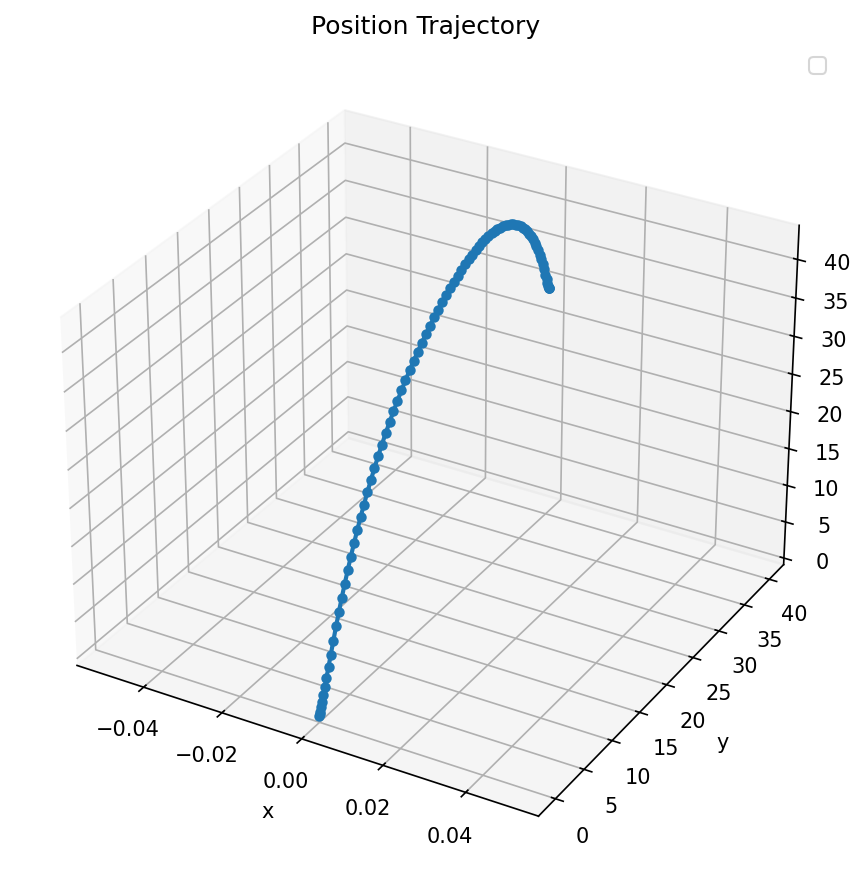
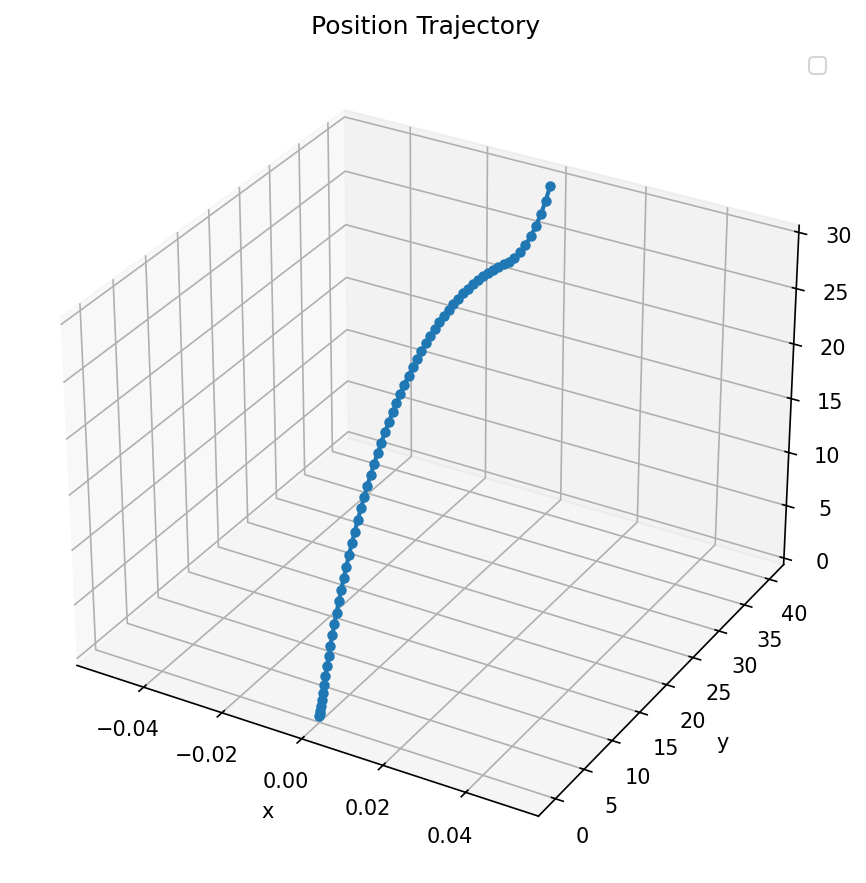
working on refining thrust constraints

diff --git a/LosslessConvexification/new_lossless.py b/LosslessConvexification/new_lossless.py
@@ -44,9 +44,6 @@ class LosslessConvexTaylorSolver:
         sigma_min = self.lower_thrust_bound / m0
         sigma_max = self.upper_thrust_bound / m_dry
 
-        # Taylor series correction factor (using sigma_max for convexity)
-        taylor_corr = 1.0 + 0.5 * self.alpha * self.delta_t * sigma_max
-
         # Decision variables
         x = cp.Variable((3, self.N + 1))
         v = cp.Variable((3, self.N + 1))
@@ -78,16 +75,20 @@ class LosslessConvexTaylorSolver:
                 v[:, k + 1] == v[:, k] + self.delta_t * (u[:, k] + self.g),
                 w[k + 1] == w[k] - self.delta_t * self.alpha * sigma[k]
             ]
-            # Thrust magnitude and bounds (Taylor-corrected, convex upper bound)
+
+            # np.log(m0 + αρ2t)
+            
+            # Thrust magnitude constraints
             constraints += [
-                cp.norm(u[:, k], 2) <= sigma[k] * taylor_corr,
+                cp.norm(u[:, k], 2) <= sigma[k],  # Removes taylor_corr
                 sigma_min <= sigma[k],
                 sigma[k] <= sigma_max
             ]
-            # Thrust pointing constraint (Taylor-corrected, convex upper bound)
+
+            # Thrust pointing constraint
             constraints += [
                 cp.norm(u[:, k] - sigma[k] * self.pointing_direction, 2)
-                <= sigma[k] * np.tan(self.tvc_range) * taylor_corr
+                <= sigma[k] * np.sin(self.tvc_range)  # Uses sin instead of tan
             ]
             # Max velocity constraint (optional)
             constraints += [
@@ -119,7 +120,7 @@ if __name__ == "__main__":
     solver = LosslessConvexTaylorSolver(
         landing_point=np.array([0, 0, 0]),
         initial_position=np.array([0, 40, 30]),
-        initial_velocity=np.array([0, 0, 0]),
+        initial_velocity=np.array([0, -8, -10]),
         glide_slope=0.05,
         max_velocity=100,
         dry_mass=100,